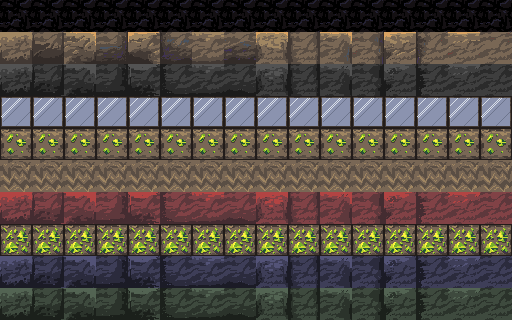
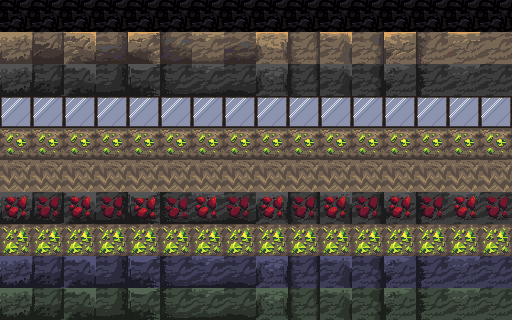
more tile art, parallax background

Changed region(s): [[0.0, 0.5938, 1.0, 0.7188], [0.0, 0.375, 1.0, 0.5], [0.0, 0.7812, 1.0, 0.8125]]

diff --git a/js/screens/playScreen.js b/js/screens/playScreen.js
@@ -9,13 +9,16 @@ const playScreen = {
 
     draw: function () {
         clearScreen("black");
+        this.drawParallaxBackground();
+
+
         tileMap.draw();
         //player debug text
-        tinyFont.drawText(
-`player:  x: ${player.x.toFixed(1)} y: ${player.y.toFixed(1)}
-yvel: ${player.yvel.toFixed(1)} xvel: ${player.xvel.toFixed(1)} health: ${player.health}
-diggerang: x: ${player.diggerang.x.toFixed(1)} y: ${player.diggerang.y.toFixed(1)}`,
- { x: 10, y: 12 }, 0, 0);
+//         tinyFont.drawText(
+// `player:  x: ${player.x.toFixed(1)} y: ${player.y.toFixed(1)}
+// yvel: ${player.yvel.toFixed(1)} xvel: ${player.xvel.toFixed(1)} health: ${player.health}
+// diggerang: x: ${player.diggerang.x.toFixed(1)} y: ${player.diggerang.y.toFixed(1)}`,
+//  { x: 10, y: 12 }, 0, 0);
         player.draw();
         actors.forEach(actor => actor.draw());
         ui.draw();
@@ -47,6 +50,36 @@ diggerang: x: ${player.diggerang.x.toFixed(1)} y: ${player.diggerang.y.toFixed(1
         // view.y = Math.min(tileMap.height * tileMap.tileSize - canvas.height, view.y);
 
     },
+
+    drawParallaxBackground: function() {
+        const layers = [
+            {
+                image: img['cave-background-2'],
+                speed: 0.2 
+            },
+            {
+                image: img['cave-background-1'],
+                speed: .5
+            }
+        ];
+    
+        layers.forEach(layer => {
+            
+            
+            // Calculate the movement of the layer based on its speed
+            const offsetX = (view.x * layer.speed) % 320;
+            const offsetY = (view.y * layer.speed) % 320;
+    
+            // Draw the layer multiple times to fill the screen
+            for (let x = -offsetX; x < view.width; x += 320) {
+                for (let y = -offsetY; y < view.height; y += 320) {
+                    canvasContext.drawImage(layer.image, x, y, 320, 320);
+                }
+            }
+        });
+    }
+    
+
 }
 
 

diff --git a/js/actors/TileMap.js b/js/actors/TileMap.js
@@ -207,13 +207,10 @@ class TileMap {
         const top = Math.floor(view.y/this.tileHeight);
         const bottom = Math.ceil((view.y+view.height)/this.tileHeight);
 
-        // const dx = this.screenShakeTime > 0 ? screenShake(this.screenShakeTime): 0;
-        // const dy = this.screenShakeTime > 0 ? screenShake(this.screenShakeTime): 0;
-
         for(let i = left; i < right; i++){
             for(let j = top; j < bottom; j++){    
                 const index = this.getIndexAtPosition(i, j)
-                
+                if(this.data[index] === 0) continue;
                 this.drawTile(tileSets.caveTileset, this.autoTileData[index], i, j)
                 this.drawDamagedTiles(index, i, j);
                 this.drawFlashingTiles(index, i, j);

diff --git a/js/gameData/config.js b/js/gameData/config.js
@@ -533,7 +533,9 @@ const imageList = [
     'gems_silhouettes',
     'bones',
     'bone_silhouettes',
-    'bat'
+    'bat',
+    'cave-background-1',
+    'cave-background-2',
 ]
 
 const soundList = [
